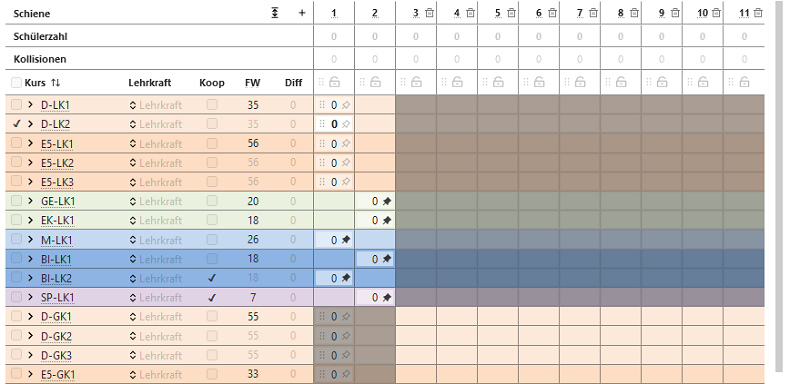
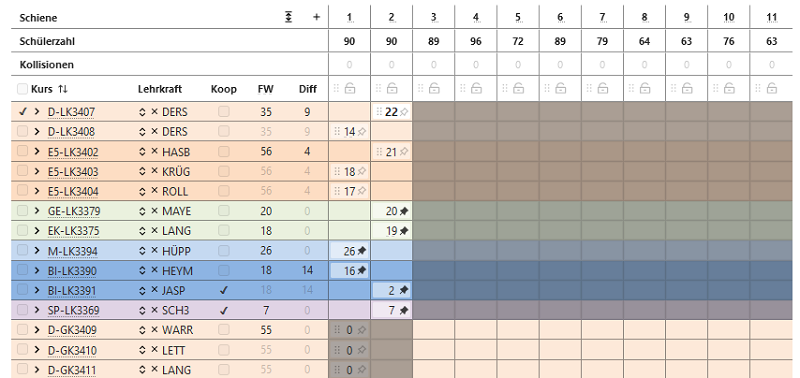
Kursplanung Korrektur Screenshot LK-Blockung Ergänzung Schüler individuell

diff --git a/gost/kursplanung/index.md b/gost/kursplanung/index.md
@@ -137,12 +137,12 @@ Ist die Blockung fertig, kann sie durch **Blockung aktivieren** in die Datenbest
 Wurden alle Einstellungen gesetzt, kann die Blockung berechnet werden.  
 Siehe [Berechnungen durchführen](/gost/kursplanung/index.md#berechnungen-durchführen)
 
-### Beispiele und Praxistipps
+## Beispiele und Praxistipps
 
 Im folgenden Beispiel werden **zunächst die Leistungskurse** und **anschließend die Grundkurse** geblockt.  
  
 
-#### LK-Blockung
+### LK-Blockung
 
 Es sind einige erkennbare und nicht erkennbare Regeln und Fixierungen enthalten.:  
 
@@ -176,12 +176,12 @@ Der Haken der Wunschergebnisses (und evtl. die Startvorlage) kann entfernt werde
 **Hinweis:** Änderungen der Regeln sind nicht mehr möglich, solange mehrere Ergebnisse vorliegen. Es können jetzt nur Kurse-Schienen- oder Kurs-Schüler-Zuordnungen geändert werden.  
 Zum **Ändern von Regeln** für neue Berechnungen darf entweder **nur ein Ergebnis stehen bleiben** oder die **Blockung muss abgeleitet werden**. Letzteres hat den Vorteil, dass auf die bisherigen Ergbnisse immer wieder zurückgegriffen werden kann.
 
-#### GK-Blockung
+### GK-Blockung
 
 Um nur noch die GKs zu blocken werden erst alle **LKs in ihren Lagen fixiert**, dann alle **Schüler in den LKs fixiert**.  
 (Anmerkung: Evtl. kommt in späteren Versionen die Option hinzu, bestimmte Kurse beim Blocken gar nicht erst zu berücksichtigen.)  
 
-##### Zusatzbeispiel: Spezialfall Sportprofile
+#### Zusatzbeispiel: Spezialfall Sportprofile
 
 Es kann (nicht nur in Sport) vorkommen, dass bereits vor dem Blocken ein Kurs eines Faches eine bestimmte Schülergruppe enthalten muss.  
 Hier kann die Funktion **Kurse: Schülerzuordnung** eingesetzt werden.  
@@ -201,7 +201,7 @@ Ergänzend können die hier schon **Schüler in Ziel-Kursen fixiert** werden.
 5. Falls alle oder einige dieser Kurse z.B. nachmittags stattfinden, können zusätzlich diese **Kurse noch in bestimmten Schienen fixiert** werden.
 
 
-##### Zusatzbeispiel Kerngruppen/Parallelkurse
+#### Zusatzbeispiel Kerngruppen/Parallelkurse
 
 Hier wird dargestellt, wie z.B. in einer **EF feste Gruppen für D, M und E-Kurse** gebildet werden. D.h. die Schülergruppe hat die Fächer D, M und E immer gemeinsam, ggf. kann auch Sport dazu ergänzt werden.  
 
@@ -212,16 +212,11 @@ Dazu werden die Schüler erst einem Kurs (hier D-GK1) zugeordnet, dann werden we
 
 
 
+## Schüler individuell bearbeiten
 
+### Kurs: Schülerzuordnung
 
-
-
-#### Sport nur Nachmittags
-
-#### Musik und Kunst parallel
-
-
-
+### Blockungsmatrix
 
  
 
